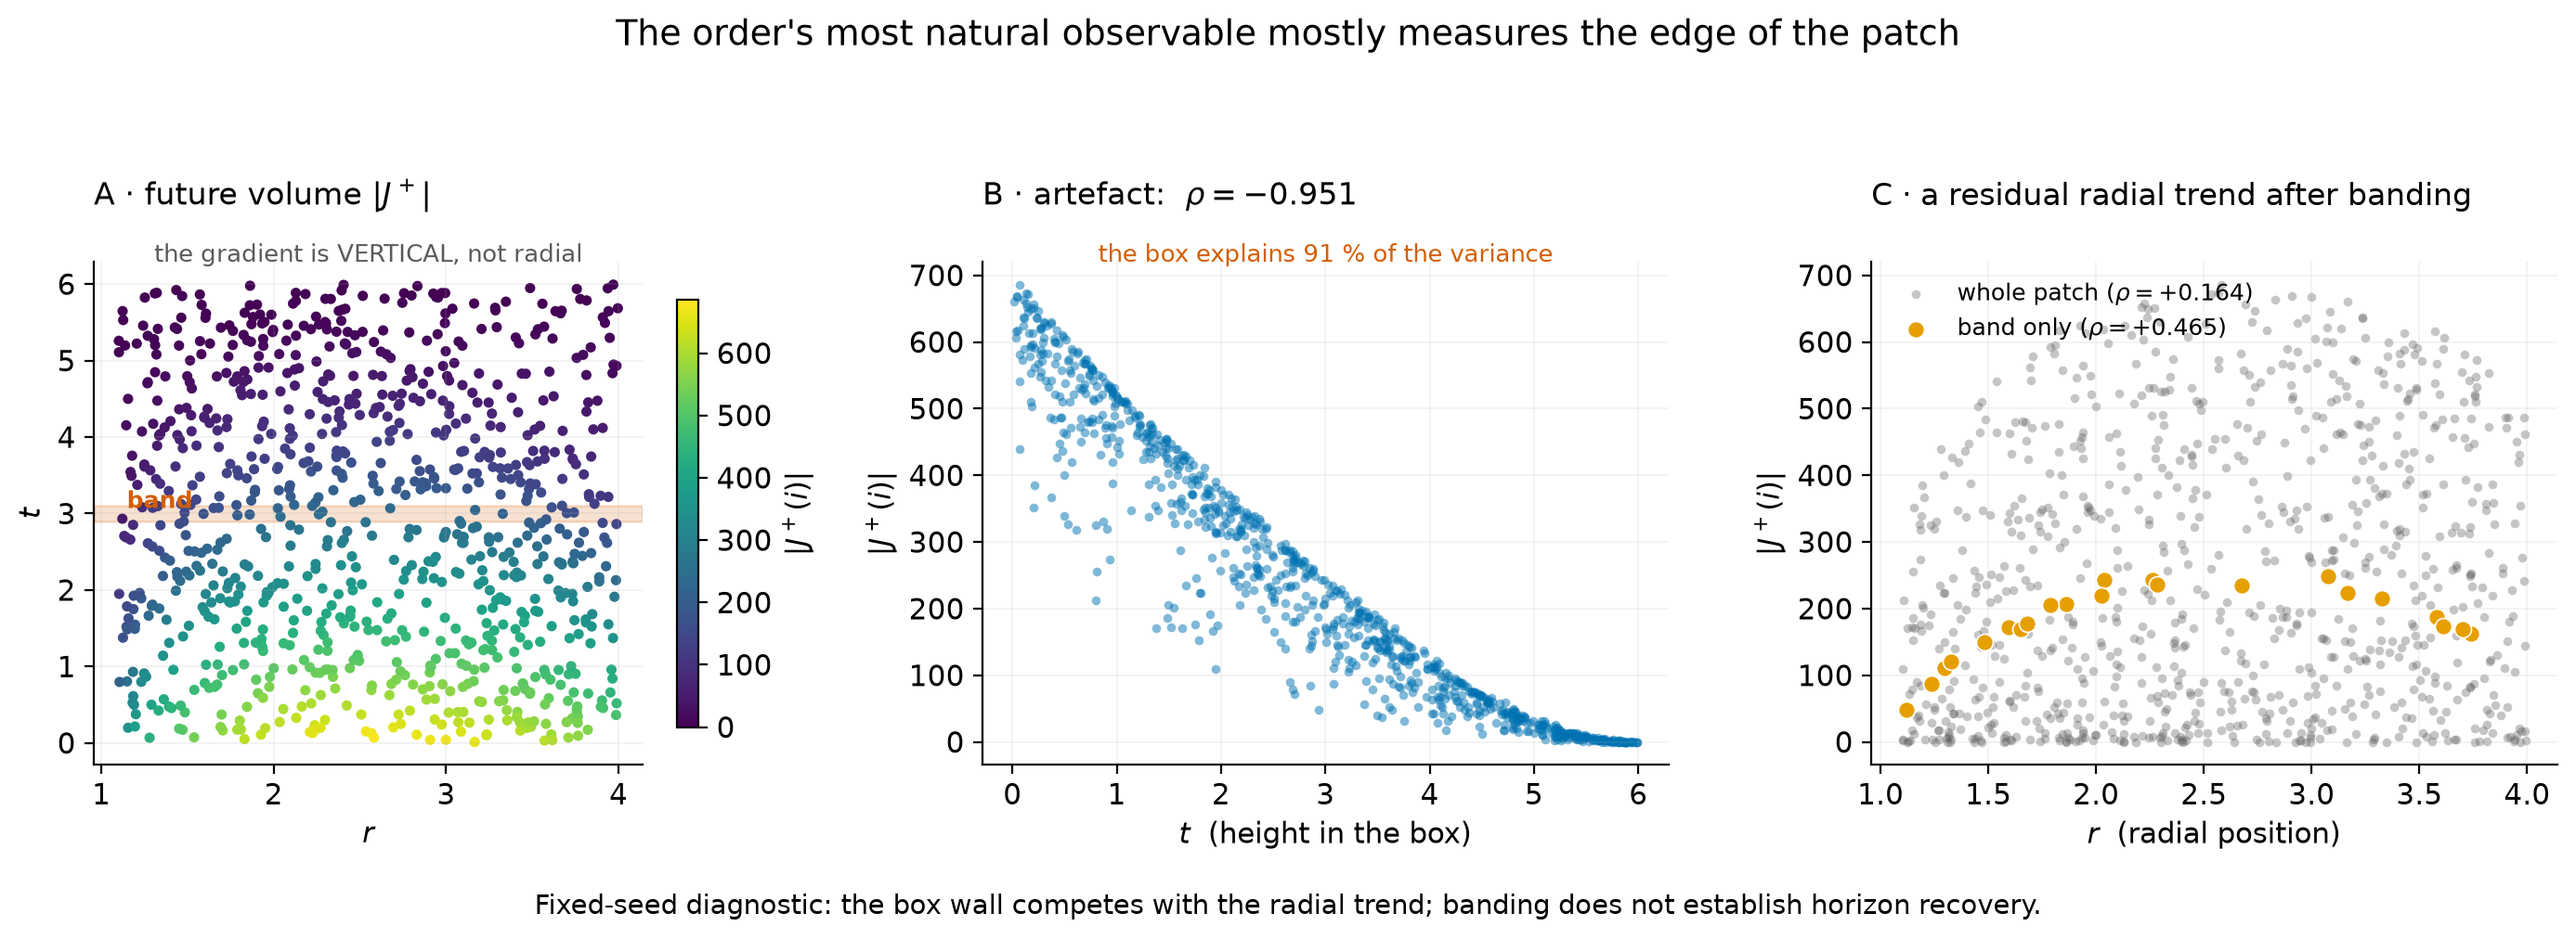
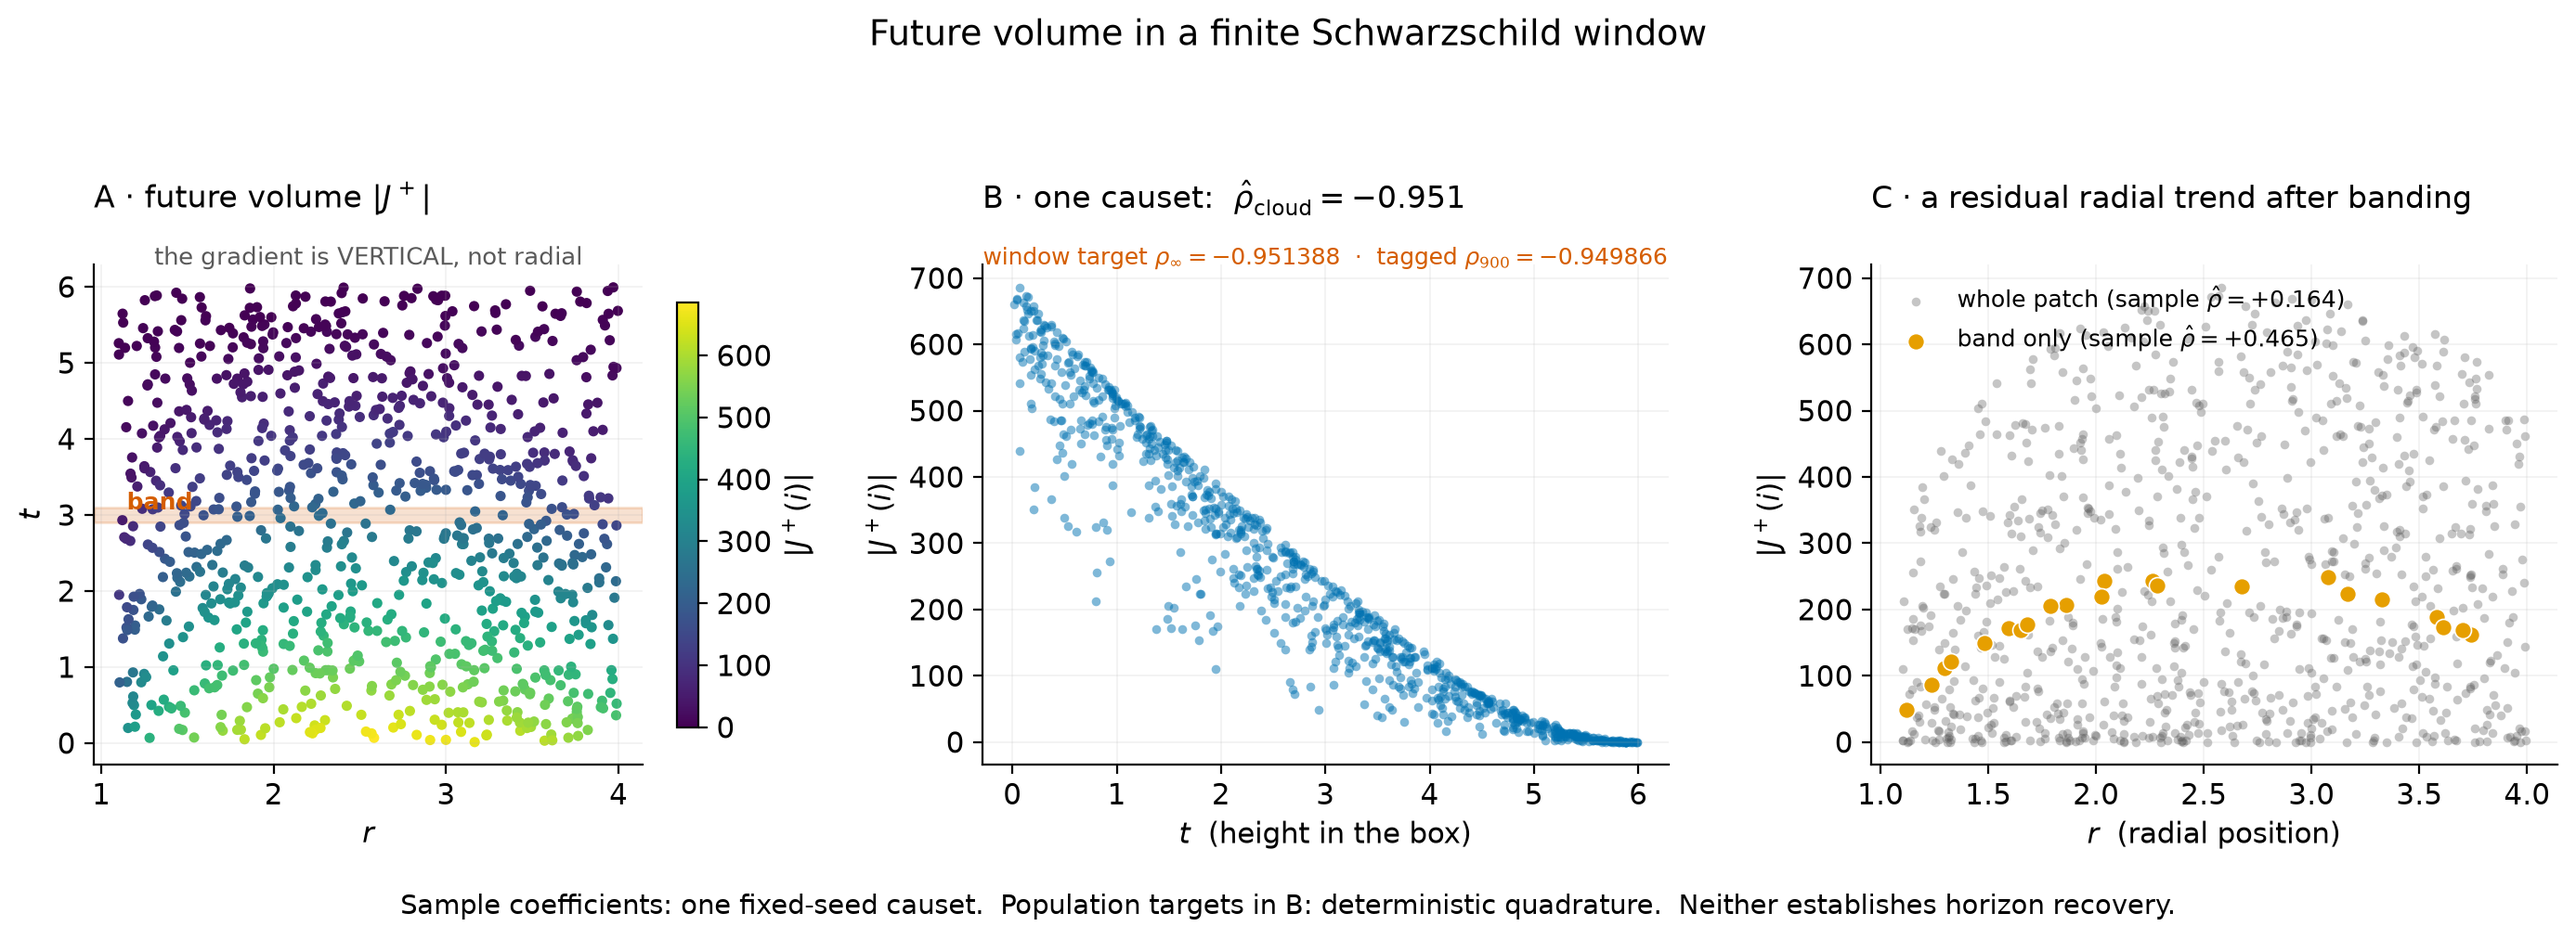
docs: derive tagged future-volume attenuation

diff --git a/viz/fig04_box_wall.py b/viz/fig04_box_wall.py
@@ -7,8 +7,8 @@ effect in this diagnostic is the simulation patch **ending**, and
 an element near the ceiling has a small future for the simple reason that the ceiling
 is there.
 
-The number that sums it up: height in the box explains ~91 % of the variance of
-`|J^+|`; radius explains ~3 %.  Conditioning on a narrow time band exposes a
+The descriptive numbers that sum it up are a sample `R^2` of ~91 % against height
+and ~3 % against radius.  Conditioning on a narrow time band exposes a
 residual radial correlation.  That residual is a diagnostic feature of this
 fixed-seed illustration, not a recovered horizon signal or a sealed validation
 result.  It is exactly the kind of conditioning the C1–C5 ledger records as
@@ -16,6 +16,11 @@ necessary and that none of those lines ever closed.
 
 Lesson for the student: in finite causal sets **the boundary of the box is an
 observable**, and it competes with the physics you are trying to measure.
+
+Panel B distinguishes three objects.  Its plotted coefficient is the Pearson
+coefficient inside one fixed-seed causet.  The window target `Corr(p(X), t(X))` and
+the finite-`n` correlation for a tagged element are computed separately by
+deterministic Gauss--Legendre quadrature; no additional sprinkling or seed is used.
 """
 
 from __future__ import annotations
@@ -34,10 +39,76 @@ RS = 1.0
 T_RANGE = (0.0, 6.0)
 R_RANGE = (1.1, 4.0)
 BAND = (2.9, 3.1)
+QUAD_T = 200
+QUAD_R = 200
+QUAD_FUTURE_R = 360
 
 
 def _corr(a, b):
     return float(np.corrcoef(np.asarray(a, float), np.asarray(b, float))[0, 1])
+
+
+def _gauss_interval(size, lo, hi):
+    """Gauss--Legendre nodes and weights mapped to `[lo, hi]`."""
+    nodes, weights = np.polynomial.legendre.leggauss(size)
+    return (hi - lo) * (nodes + 1.0) / 2.0 + lo, weights * (hi - lo) / 2.0
+
+
+def population_diagnostics(n_points=N):
+    """Return the window/chart target and exact tagged-element attenuation.
+
+    For `X=(t,r)` uniform on the declared rectangle, define
+
+        p(X) = Vol(J^+(X) intersect W) / Vol(W).
+
+    At fixed `r_prime`, the allowed future-time length is
+
+        [t_max - t - |r_star(r_prime)-r_star(r)|]_+.
+
+    The resulting one-dimensional integral gives `p(t,r)`.  Tensor-product
+    Gauss--Legendre quadrature then evaluates its moments over `X`.  This is a
+    deterministic quadrature of the continuum window, not a sprinkling estimate.
+    """
+    if n_points < 2:
+        raise ValueError("tagged-element attenuation requires n_points >= 2")
+
+    t, wt = _gauss_interval(QUAD_T, *T_RANGE)
+    r, wr = _gauss_interval(QUAD_R, *R_RANGE)
+    r_future, w_future = _gauss_interval(QUAD_FUTURE_R, *R_RANGE)
+
+    def r_star(values):
+        values = np.asarray(values, dtype=float)
+        return values + RS * np.log(values / RS - 1.0)
+
+    delta_r_star = np.abs(r_star(r)[:, None] - r_star(r_future)[None, :])
+    area = (T_RANGE[1] - T_RANGE[0]) * (R_RANGE[1] - R_RANGE[0])
+    p = np.asarray([
+        (np.maximum(T_RANGE[1] - t_i - delta_r_star, 0.0) * w_future)
+        .sum(axis=1) / area
+        for t_i in t
+    ])
+    weights = wt[:, None] * wr[None, :] / area
+
+    mean_p = float(np.sum(weights * p))
+    var_p = float(np.sum(weights * p * p) - mean_p ** 2)
+    binomial_noise = float(np.sum(weights * p * (1.0 - p)))
+    mean_t = float(np.sum(weights * t[:, None]))
+    var_t = float(np.sum(weights * (t[:, None] - mean_t) ** 2))
+    cov_p_t = float(np.sum(weights * (p - mean_p) * (t[:, None] - mean_t)))
+    corr_p_t = cov_p_t / np.sqrt(var_p * var_t)
+
+    attenuation = float(
+        (1.0 + binomial_noise / ((n_points - 1) * var_p)) ** -0.5
+    )
+    return {
+        "mean_p": mean_p,
+        "var_p": var_p,
+        "binomial_noise": binomial_noise,
+        "corr_p_t": float(corr_p_t),
+        "attenuation": attenuation,
+        "corr_k_p": attenuation,
+        "corr_k_t": float(corr_p_t * attenuation),
+    }
 
 
 def build():
@@ -52,6 +123,7 @@ def draw(out):
     t, r, fv, band = build()
     c_t, c_r = _corr(fv, t), _corr(fv, r)
     c_r_band = _corr(fv[band], r[band])
+    pop = population_diagnostics(N)
 
     use_style()
     fig, (axA, axB, axC) = plt.subplots(1, 3, figsize=(14.0, 4.9))
@@ -73,37 +145,44 @@ def draw(out):
     axB.scatter(t, fv, s=12, c=BLUE, alpha=0.5, linewidth=0)
     axB.set_xlabel("$t$  (height in the box)")
     axB.set_ylabel("$|J^+(i)|$")
-    axB.set_title(f"B · artefact:  $\\rho = {c_t:+.3f}$", loc="left", pad=22)
-    axB.text(0.5, 1.0, f"the box explains {100 * c_t ** 2:.0f} % of the variance",
+    axB.set_title(f"B · one causet:  $\\hat{{\\rho}}_{{\\rm cloud}} = {c_t:+.3f}$",
+                  loc="left", pad=22)
+    axB.text(0.5, 1.0,
+             f"window target $\\rho_\\infty={pop['corr_p_t']:+.6f}$"
+             f"  ·  tagged $\\rho_{{{N}}}={pop['corr_k_t']:+.6f}$",
              transform=axB.transAxes, ha="center", va="baseline",
-             fontsize=9.5, color=RED)
+             fontsize=8.9, color=RED)
 
     # --- C: against radius ---------------------------------------------------
     axC.scatter(r, fv, s=12, c=GREY, alpha=0.35, linewidth=0,
-                label=f"whole patch ($\\rho={c_r:+.3f}$)")
+                label=f"whole patch (sample $\\hat{{\\rho}}={c_r:+.3f}$)")
     axC.scatter(r[band], fv[band], s=42, c=ORANGE, edgecolor="white",
                 linewidth=0.6, zorder=3,
-                label=f"band only ($\\rho={c_r_band:+.3f}$)")
+                label=f"band only (sample $\\hat{{\\rho}}={c_r_band:+.3f}$)")
     axC.set_xlabel("$r$  (radial position)")
     axC.set_ylabel("$|J^+(i)|$")
     axC.set_title("C · a residual radial trend after banding", loc="left", pad=22)
     axC.legend(loc="upper left", fontsize=9)
 
-    fig.suptitle("The order's most natural observable mostly measures the edge of the patch",
+    fig.suptitle("Future volume in a finite Schwarzschild window",
                  fontsize=13.5, y=0.99)
     fig.text(0.5, 0.005,
-             "Fixed-seed diagnostic: the box wall competes with the radial trend; "
-             "banding does not establish horizon recovery.",
+             "Sample coefficients: one fixed-seed causet.  Population targets in B: "
+             "deterministic quadrature.  Neither establishes horizon recovery.",
              ha="center", fontsize=10.5)
     fig.tight_layout(rect=(0, 0.04, 1, 0.92))
     fig.savefig(out)
     plt.close(fig)
-    return out, c_t, c_r, c_r_band
+    return out, c_t, c_r, c_r_band, pop
 
 
 if __name__ == "__main__":
     target = pathlib.Path(__file__).parent / "output" / "fig04_box_wall.png"
     target.parent.mkdir(exist_ok=True)
-    path, a, b, c = draw(target)
+    path, a, b, c, pop = draw(target)
     print(f"written {path}")
-    print(f"  corr(|J+|, t) = {a:+.3f}   corr(|J+|, r) = {b:+.3f}   band corr = {c:+.3f}")
+    print(f"  sample corr(|J+|, t) = {a:+.3f}   corr(|J+|, r) = {b:+.3f}"
+          f"   band corr = {c:+.3f}")
+    print(f"  window corr(p(X),t(X)) = {pop['corr_p_t']:+.8f}"
+          f"   tagged corr(K,T) = {pop['corr_k_t']:+.8f}"
+          f"   attenuation = {pop['attenuation']:.8f}")

diff --git a/viz/make_figures.py b/viz/make_figures.py
@@ -40,9 +40,11 @@ def main():
     fig03_teleology.draw(OUTPUT / "fig03_teleology.png")
     print("fig03  teleology                patch verified identical in both continuations")
 
-    _, c_t, c_r, c_band = fig04_box_wall.draw(OUTPUT / "fig04_box_wall.png")
-    print(f"fig04  box wall                 corr(|J+|,t) = {c_t:+.3f}   "
+    _, c_t, c_r, c_band, pop = fig04_box_wall.draw(OUTPUT / "fig04_box_wall.png")
+    print(f"fig04  box wall sample          corr(|J+|,t) = {c_t:+.3f}   "
           f"corr(|J+|,r) = {c_r:+.3f}   band corr = {c_band:+.3f}")
+    print(f"       population quadrature    corr(p(X),t(X)) = {pop['corr_p_t']:+.8f}   "
+          f"tagged corr(K,T) = {pop['corr_k_t']:+.8f}")
 
     _, gap, sd = fig05_what_is_recoverable.draw(OUTPUT / "fig05_what_is_recoverable.png")
     print(f"fig05  what is recoverable      |rs=1 - rs=7| max = {gap:.4f}   "

diff --git a/docs/manuscript_limits_draft.md b/docs/manuscript_limits_draft.md
@@ -1813,15 +1813,148 @@ abundance/stability; red-team 044 lowered the terminal to the conservative
 `BLOCKED_NO_STABLE_CODIM2`. The self-correction is part of the method: the ledger
 records the lower claim, not the withdrawn higher one.
 
-Figure 5 visualizes the box-wall confound behind several ledger entries, using only
-an illustrative fixed-seed diagnostic rather than a new validation run.
+#### Proposition 5.1 (tagged-element future-volume attenuation)
 
-![**Fixed-seed box-wall diagnostic for future volume.** In this
-illustrative \(N=900\) sample, the correlations are
-\(\rho(|J^+|,t)=-0.951\), \(\rho(|J^+|,r)=0.164\), and \(0.465\) after restricting
-to the displayed narrow time band. These values are generated by the visualization
-script and are not a sealed validation result. The time-banded residual is a
-diagnostic trend, not recovery of horizon physics.](../viz/output/fig04_box_wall.png){width=100%}
+`[PROVED]` · Scope: fixed-\(n\) marginal law before any order-dependent selection.
+
+Let \((W,\prec,\nu)\) be a non-atomic causal probability patch and let
+\(X_1,\ldots,X_n\) be i.i.d. from \(\nu\), with \(n\ge2\). Fix a label \(I\)
+(equivalently, choose it independently and uniformly from the labels), and define
+
+\[
+p(x):=\nu\{y\in W:x\prec y\},
+\qquad
+P=p(X_I),
+\qquad
+K=\sum_{j\ne I}\mathbf 1\{X_I\prec X_j\}.
+\]
+
+For any declared \(T=t(X_I)\in L^2(\nu)\),
+
+For \(\nu\)-almost every \(x\),
+
+\[
+K\mid(X_I=x)\sim\operatorname{Binomial}(n-1,p(x)),
+\]
+
+and therefore
+
+\[
+\begin{aligned}
+\operatorname{Var}(K)
+&=(n-1)^2\operatorname{Var}(P)
+ +(n-1)\mathbb E[P(1-P)],\\
+\operatorname{Cov}(K,P)&=(n-1)\operatorname{Var}(P),\\
+\operatorname{Cov}(K,T)&=(n-1)\operatorname{Cov}(P,T).
+\end{aligned}
+\]
+
+If \(\operatorname{Var}(P),\operatorname{Var}(T)>0\), put
+
+\[
+A_n
+:=
+\left(
+1+\frac{\mathbb E[P(1-P)]}
+{(n-1)\operatorname{Var}(P)}
+\right)^{-1/2}.
+\]
+
+Then the two population correlations share exactly the same finite-cardinality
+attenuation:
+
+\[
+\operatorname{Corr}(K,P)=A_n,
+\qquad
+\operatorname{Corr}(K,T)=\operatorname{Corr}(P,T)A_n.
+\]
+
+In particular, with
+\(c=\mathbb E[P(1-P)]/\operatorname{Var}(P)\),
+
+\[
+A_n
+=1-\frac{c}{2(n-1)}+O(n^{-2}),
+\]
+
+so \(\operatorname{Corr}(K,P)\to1\) and
+\(\operatorname{Corr}(K,T)\to\operatorname{Corr}(P,T)\), both with an
+\(O(n^{-1})\) correlation gap.
+
+*Proof.* Conditional on the tagged position \(X_I=x\), the remaining \(n-1\)
+points are independent and each lies in \(J^+(x)\cap W\) with probability \(p(x)\).
+This proves the binomial law. The law of total variance gives the displayed variance,
+while conditioning gives
+\(\mathbb E[K\mid X_I]=(n-1)P\); the two covariance identities follow immediately.
+Substitution into the definition of correlation yields \(A_n\), and the expansion is
+the Taylor series of \((1+c/(n-1))^{-1/2}\). \(\blacksquare\)
+
+**Application to Figure 5.** For its declared exterior window
+
+\[
+W=[0,6]\times[1.1,4],
+\qquad r_s=1,
+\qquad \nu=dt\,dr/\operatorname{Vol}(W),
+\]
+
+the tortoise coordinate \(r_*(r)=r+\log(r-1)\) gives the explicit population field
+
+\[
+p(t,r)
+=
+\frac{1}{\operatorname{Vol}(W)}
+\int_{1.1}^{4}
+\bigl[6-t-|r_*(r')-r_*(r)|\bigr]_+\,dr'.
+\]
+
+Thus every moment above is obtainable by deterministic quadrature, without a
+sprinkling. The quadrature implemented in `viz/fig04_box_wall.py` gives
+
+| Quantity | Value |
+|---|---:|
+| Window-and-chart target \(\rho_\infty=\operatorname{Corr}(P,T)\) | \(-0.951388\) |
+| Tagged attenuation \(A_{900}=\operatorname{Corr}(K,P)\) | \(0.998400\) |
+| Tagged finite-\(n\) correlation \(\rho_{900}=\operatorname{Corr}(K,T)\) | \(-0.949866\) |
+| One-causet coefficient drawn in Figure 5, \(\widehat\rho_{\mathrm{cloud}}\) | \(-0.951\) (rounded) |
+
+The word *target* here is experiment-relative: \(\rho_\infty\) depends on the window,
+its normalized volume measure, and the declared Schwarzschild time coordinate. It is
+not an intrinsic scalar invariant of Schwarzschild spacetime.
+
+**Realization and selection caveats.** Figure 5 computes
+\(\widehat\rho_{\mathrm{cloud}}\) from all \((K_i,T_i)\) in one causet. Those pairs
+are dependent because they share the same point cloud. Proposition 5.1 is therefore
+an exact statement about the marginal law of a tagged element, not a finite-sample
+identity for the internal Pearson ratio, and ordinary i.i.d. correlation intervals
+do not apply. Likewise, after an element is chosen by an `argmax` or any selector
+using the full causet, conditioning only on its position no longer leaves \(n-1\)
+independent Bernoulli trials; that selected-endpoint problem is a different extreme-
+value law.
+
+For fixed \(p>0\), the conditional coefficient of variation is exactly
+
+\[
+\operatorname{CV}(K\mid P=p)
+=
+\sqrt{\frac{1-p}{(n-1)p}},
+\]
+
+which is pointwise \(O(n^{-1/2})\), not uniform as \(p\downarrow0\). No unqualified
+average over positions is used here.
+
+Figure 5 visualizes the box-wall confound behind several ledger entries. Its sample
+layer is an illustrative fixed-seed diagnostic rather than a new validation run; its
+two population annotations come from the deterministic quadrature above.
+
+![**Box-wall diagnostic and tagged-element population targets.** In the fixed-seed
+\(N=900\) causet, the internal coefficients are
+\(\widehat\rho_{\mathrm{cloud}}(K,t)=-0.951\),
+\(\widehat\rho_{\mathrm{cloud}}(K,r)=0.164\), and \(0.465\) in the narrow time band.
+Panel B separately reports the deterministic window target
+\(\rho_\infty=-0.951388\) and the exactly attenuated tagged-element correlation
+\(\rho_{900}=-0.949866\). The first number is a dependent one-realization Pearson
+coefficient; the latter two are population quantities. Neither the time-banded
+residual nor these correlations establish horizon recovery.](../viz/output/fig04_box_wall.png){width=100%}
 
 ### 5.4 Cross-cutting structural reading
 

diff --git a/viz/README.md b/viz/README.md
@@ -83,3 +83,10 @@ Its caption must report `N=60`, 80 repeats, and the fixed seed, and must say tha
 observed variation does not prove recovery or localization. Figure 3's maximal-element
 construction is a toy analogy for completion dependence, not the event horizon itself;
 Figure 4's time-banded residual is a diagnostic, not recovered horizon physics.
+
+Asset `fig04` separates its fixed-seed within-causet Pearson coefficient from two
+deterministic quadrature targets: the window functional `Corr(p(X),t(X))` and the
+finite-`n` tagged-element correlation. The exact attenuation formula applies to the
+tagged marginal law, not identically to the dependent Pearson coefficient computed
+inside one causet. No iid confidence interval is authorized for that internal
+coefficient.
